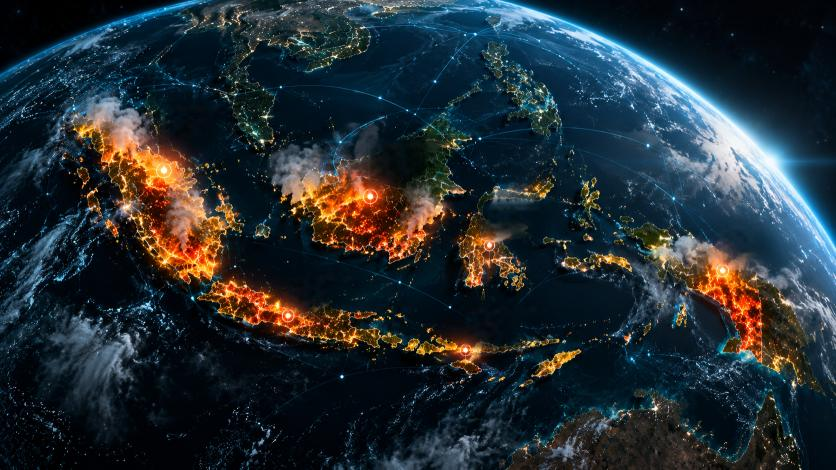
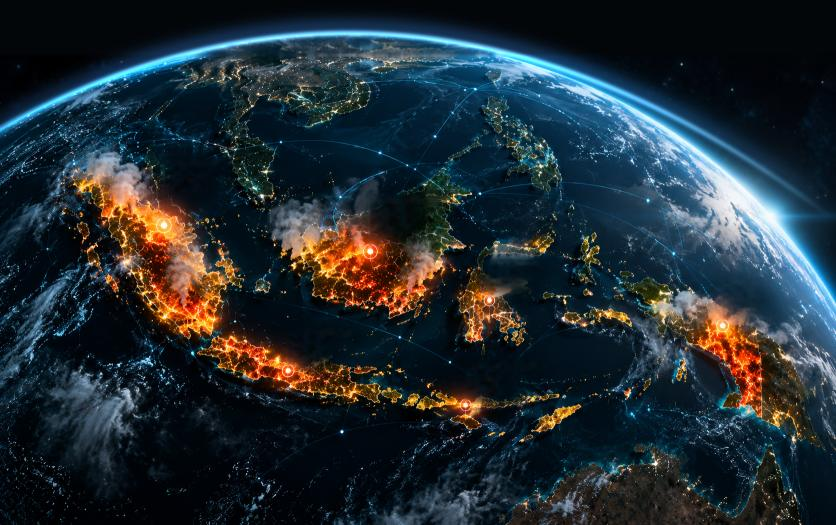
globe

diff --git a/PDPzf2CachU3NAvWCG/console.js b/PDPzf2CachU3NAvWCG/console.js
@@ -48,7 +48,7 @@
       </div>
 
       <div class="g-stage">
-        <div class="g-earth"><img src="earth.jpg?v=1" srcset="earth-sm.jpg?v=1 836w, earth.jpg?v=1 1672w" sizes="(max-width:700px) 100vw, 1400px" alt="Peta sebaran percakapan karhutla di Indonesia" decoding="async" fetchpriority="high"><canvas class="g-smoke" aria-hidden="true"></canvas><div class="g-pins"></div></div>
+        <div class="g-earth"><img src="earth.jpg?v=2" srcset="earth-sm.jpg?v=2 836w, earth.jpg?v=2 1672w" sizes="(max-width:700px) 100vw, 1400px" alt="Peta sebaran percakapan karhutla di Indonesia" decoding="async" fetchpriority="high"><canvas class="g-smoke" aria-hidden="true"></canvas><div class="g-pins"></div></div>
         <div class="g-glass g-int">
           <div class="g-h"><h3>Intensitas Percakapan</h3><span class="g-live">Live</span></div>
           <div class="g-scale"></div><div class="g-scale-l"><span>Rendah</span><span>Tinggi</span></div>
@@ -85,8 +85,8 @@
       </div>`;
 
     // peta foto bumi + pin data
-    const PIN = { 'Sumatera': [328, 340], 'Kalimantan': [740, 393], 'Sulawesi': [978, 491], 'Jawa': [576, 631], 'Bali & Nusa Tenggara': [932, 701], 'Papua': [1445, 541], 'Maluku': [1185, 398] };
-    const IW = 1672, IH = 941, mx = Math.max(1, ...isl.map(x => x[1]));
+    const PIN = { 'Sumatera': [328, 450], 'Kalimantan': [740, 503], 'Sulawesi': [978, 601], 'Jawa': [576, 741], 'Bali & Nusa Tenggara': [932, 811], 'Papua': [1445, 651], 'Maluku': [1185, 508] };
+    const IW = 1672, IH = 1051, mx = Math.max(1, ...isl.map(x => x[1]));
     const pins = root.querySelector('.g-pins');
     pins.innerHTML = isl.map(([kk, v]) => { const p = PIN[kk]; if (!p) return ''; const d = delta(islL[kk] || 0, islP[kk] || 0), t = v / mx;
       const nm = kk === 'Bali & Nusa Tenggara' ? 'Nusa Tenggara' : kk;
@@ -96,7 +96,7 @@
     const fit = () => { const W = stage.clientWidth, H = stage.clientHeight, wide = innerWidth >= 1100;
       if (!wide) { earth.style.cssText = ''; return; }
       const left = 300, right = 16, sc = (W - left - right) / (1640 - 150), w = IW * sc, h = IH * sc;
-      earth.style.cssText = `position:absolute;width:${w}px;height:${h}px;left:${left - 150 * sc}px;top:${(H - 20) / 2 - 460 * sc - 50}px`;
+      earth.style.cssText = `position:absolute;width:${w}px;height:${h}px;left:${left - 150 * sc}px;top:${(H - 20) / 2 - 570 * sc + 20}px`;
       const below = Math.max(0, (H - 70) / 2 - 460 * sc + h - H); stage.style.setProperty('--below', below + 'px'); };
     fit(); if (!buildConsole.fitBound) { buildConsole.fitBound = 1; addEventListener('resize', () => { const f = document.querySelector('#gConsole')?._fit; f && f(); }); }
     root._fit = fit;

diff --git a/PDPzf2CachU3NAvWCG/core.js b/PDPzf2CachU3NAvWCG/core.js
@@ -168,7 +168,7 @@
 
 /* Peta foto bumi malam (1 gambar JPG ±80–300KB, sisanya HTML ringan) */
 .g-stage{background:#01040A!important;height:clamp(500px,46vw,680px)!important}
-.g-earth{position:relative;width:100%;aspect-ratio:1672/941}
+.g-earth{position:relative;width:100%;aspect-ratio:1672/1051}
 .g-earth img{position:absolute;inset:0;width:100%;height:100%;display:block;user-select:none}
 .g-stage:after{content:"";position:absolute;inset:0;pointer-events:none;background:linear-gradient(90deg,rgba(1,4,10,.55),transparent 28%),linear-gradient(0deg,rgba(1,4,10,.7),transparent 22%)}
 .g-int,.g-ctrl{z-index:2}
@@ -199,7 +199,7 @@
 .g-pins{z-index:2}
 .g-int,.g-ctrl{z-index:3}
 .g-grid4,.g-grid2{position:relative;z-index:2}
-@media(min-width:1101px){.g-stage{height:clamp(580px,50vw,770px)!important}.g-grid4{margin-top:-170px}.g-ctrl{bottom:186px!important}}
+@media(min-width:1101px){.g-stage{height:clamp(640px,54vw,840px)!important}.g-grid4{margin-top:-170px}.g-ctrl{bottom:186px!important}}
 .g-grid4 .g-card{background:linear-gradient(180deg,rgba(255,255,255,.07),rgba(255,255,255,.01) 45%),rgba(8,13,18,.55)!important;
   -webkit-backdrop-filter:blur(14px) saturate(140%);backdrop-filter:blur(14px) saturate(140%);border-color:rgba(160,220,215,.16)!important}
 [data-theme=light] .g-earth:before{background:linear-gradient(90deg,var(--bg) 0%,transparent 14%,transparent 90%,var(--bg) 100%),linear-gradient(180deg,var(--bg) 0%,transparent 10%,transparent 70%,var(--bg) 100%)}

diff --git a/PDPzf2CachU3NAvWCG/index.html b/PDPzf2CachU3NAvWCG/index.html
@@ -38,7 +38,7 @@
 <script src="https://cdnjs.cloudflare.com/ajax/libs/PapaParse/5.4.1/papaparse.min.js"></script>
 <script src="https://cdnjs.cloudflare.com/ajax/libs/cytoscape/3.28.1/cytoscape.min.js"></script>
 <link rel="stylesheet" href="theme.css?v=69">
-<link rel="preload" as="image" href="earth.jpg?v=1" imagesrcset="earth-sm.jpg?v=1 836w, earth.jpg?v=1 1672w" imagesizes="(max-width:700px) 100vw, 1400px">
+<link rel="preload" as="image" href="earth.jpg?v=2" imagesrcset="earth-sm.jpg?v=2 836w, earth.jpg?v=2 1672w" imagesizes="(max-width:700px) 100vw, 1400px">
 </head>
 <body>
 <header class="topbar">
@@ -192,10 +192,10 @@
 </main>
 <script src="app.js?v=71"></script>
 <script src="map.js?v=69"></script>
-<script src="core.js?v=74"></script>
-<script src="globe.js?v=69"></script>
+<script src="core.js?v=75"></script>
+<script src="globe.js?v=75"></script>
 <script src="analitik.js?v=74"></script>
-<script src="console.js?v=74"></script>
+<script src="console.js?v=75"></script>
 <script src="fx.js?v=72"></script>
 <script src="chat.js?v=69"></script>
 </body>

diff --git a/PDPzf2CachU3NAvWCG/globe.js b/PDPzf2CachU3NAvWCG/globe.js
@@ -4,8 +4,8 @@
   /* ---------------- Asap partikel (canvas, ringan) ----------------
      Sprite asap dibuat sekali secara prosedural; partikel tersebar di area tiap pulau,
      jumlah & kepekatan sebanding volume percakapan. Berhenti saat tak terlihat. */
-  const AREA = { 'Sumatera': [320, 395, 165, 48, 52], 'Kalimantan': [715, 410, 135, 85, 0], 'Sulawesi': [985, 480, 55, 85, 10], 'Jawa': [560, 622, 165, 22, 14],
-    'Bali & Nusa Tenggara': [960, 705, 150, 18, -6], 'Papua': [1440, 560, 105, 95, 20], 'Maluku': [1180, 405, 40, 55, 0] };
+  const AREA = { 'Sumatera': [320, 505, 165, 48, 52], 'Kalimantan': [715, 520, 135, 85, 0], 'Sulawesi': [985, 590, 55, 85, 10], 'Jawa': [560, 732, 165, 22, 14],
+    'Bali & Nusa Tenggara': [960, 815, 150, 18, -6], 'Papua': [1440, 670, 105, 95, 20], 'Maluku': [1180, 515, 40, 55, 0] };
   let SPR = null;
   function sprites() {
     if (SPR) return SPR; SPR = [];
